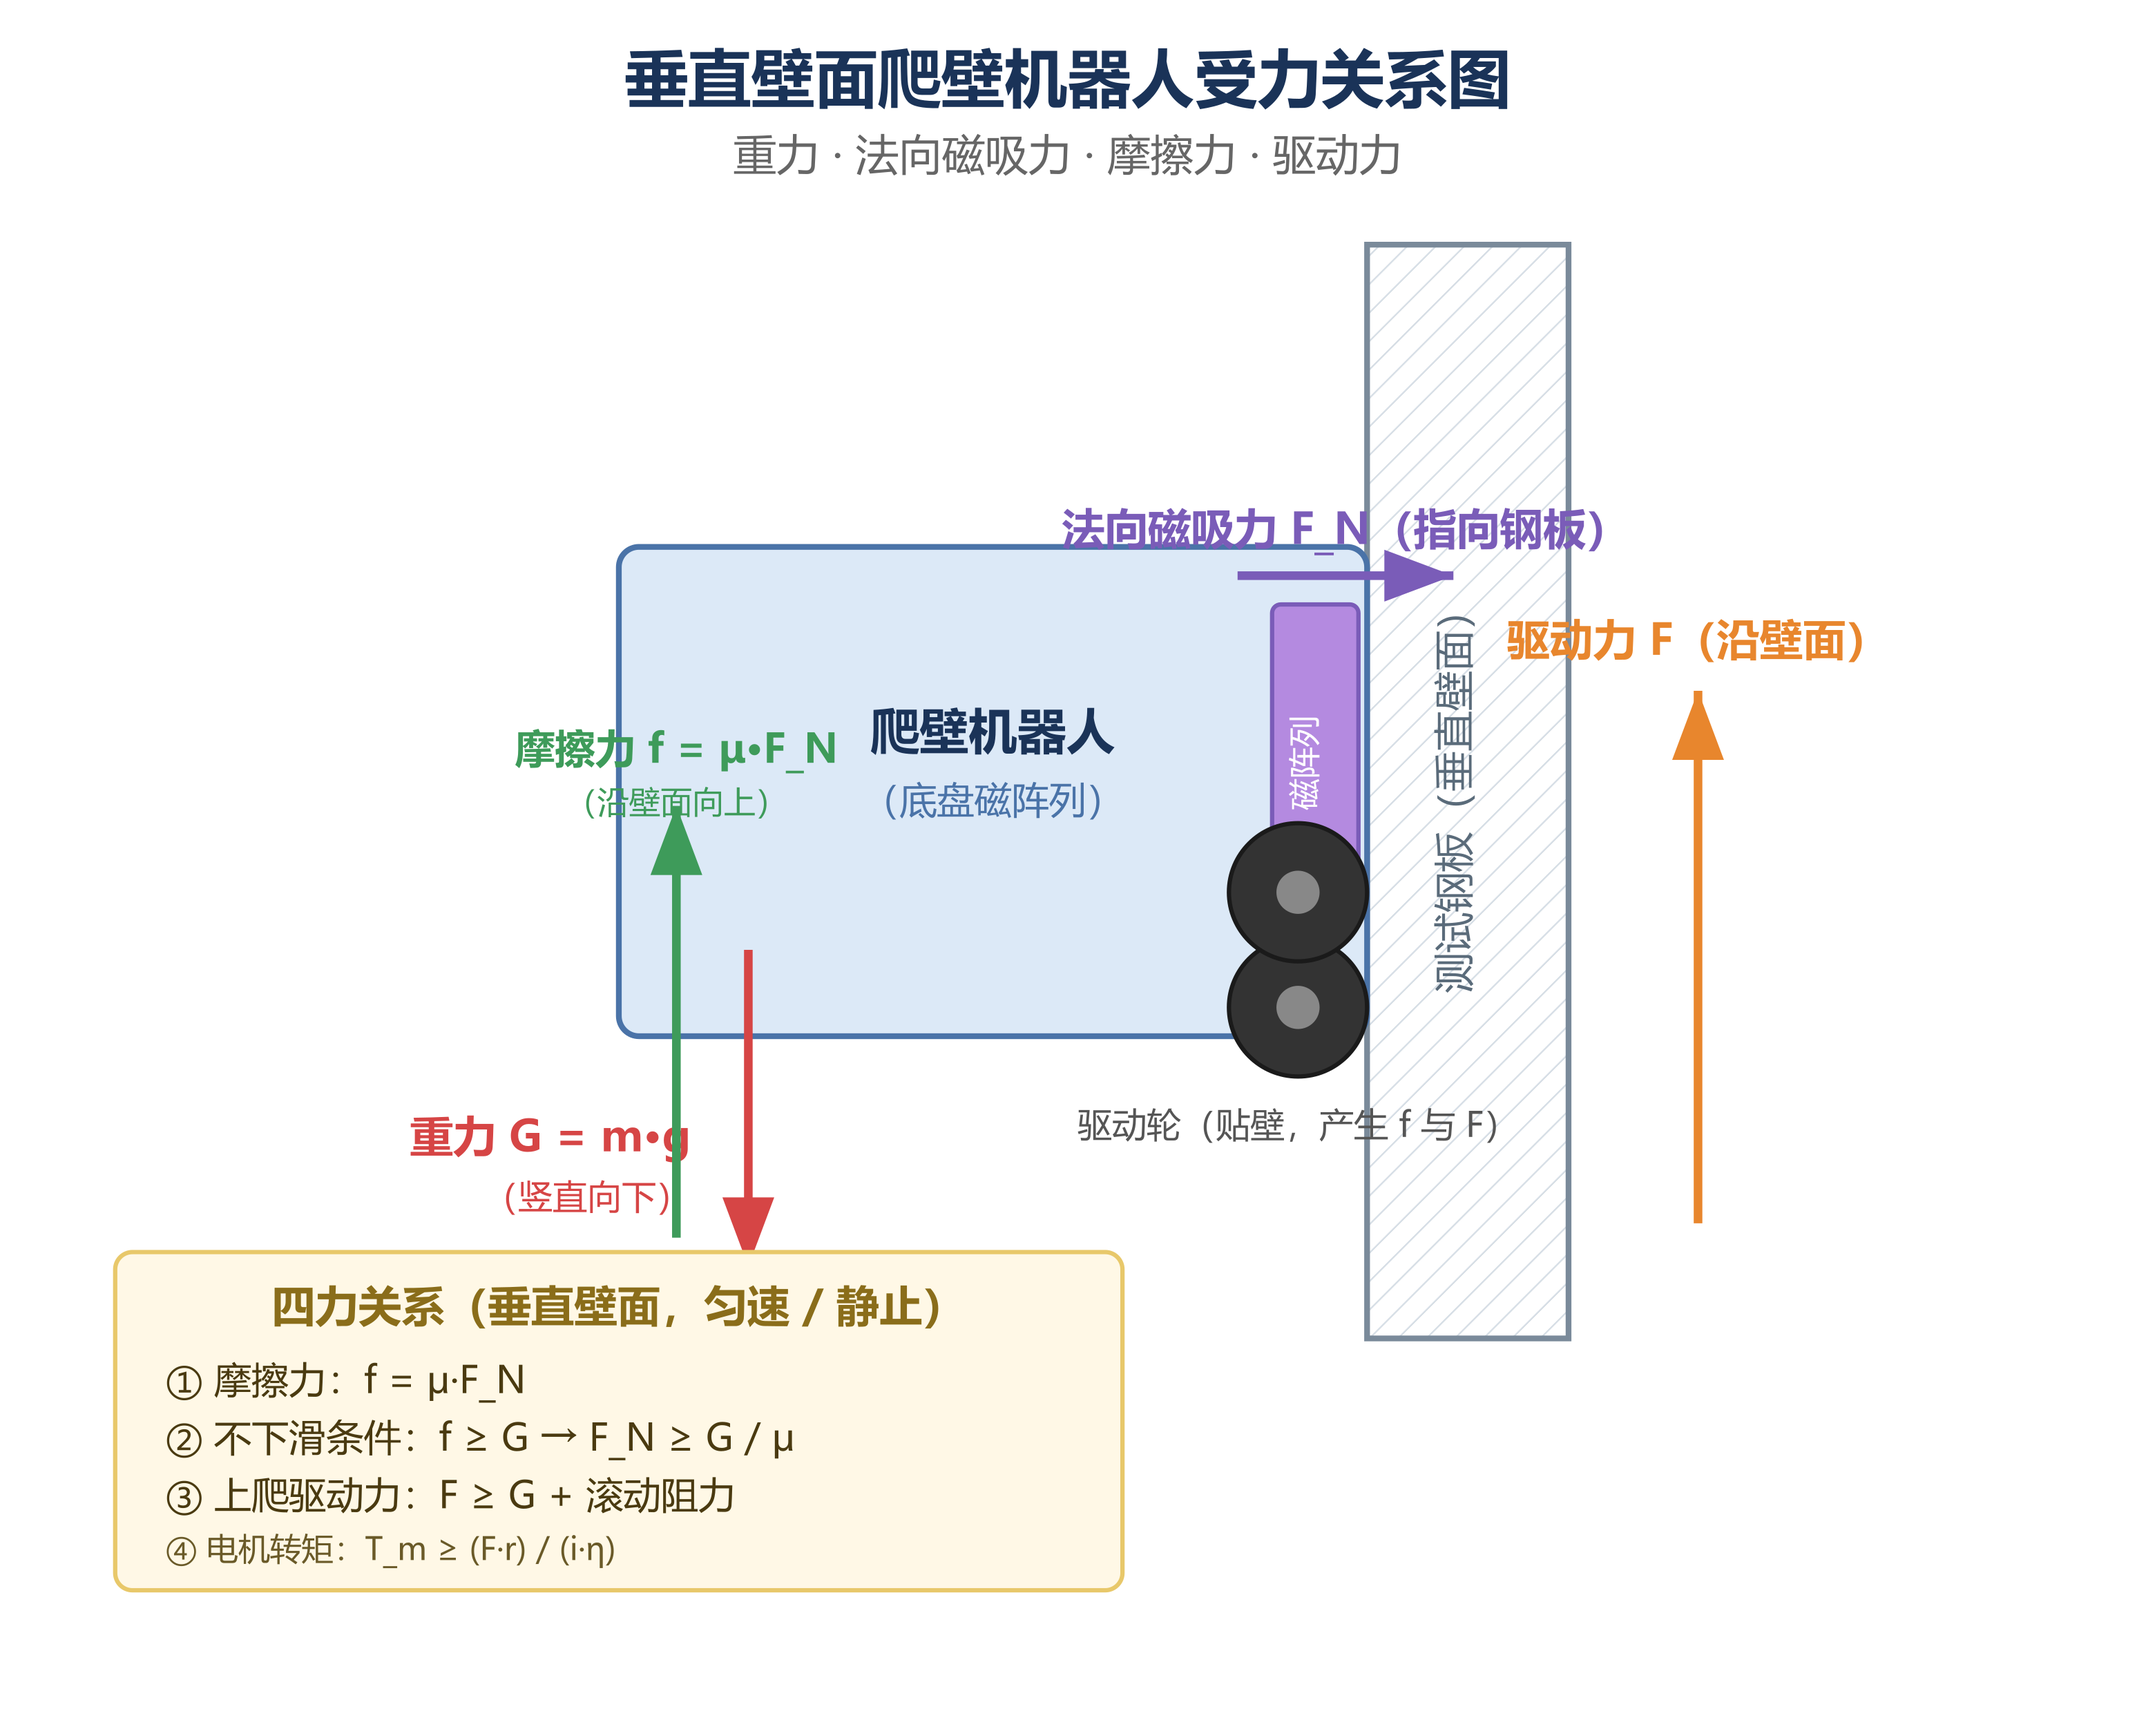
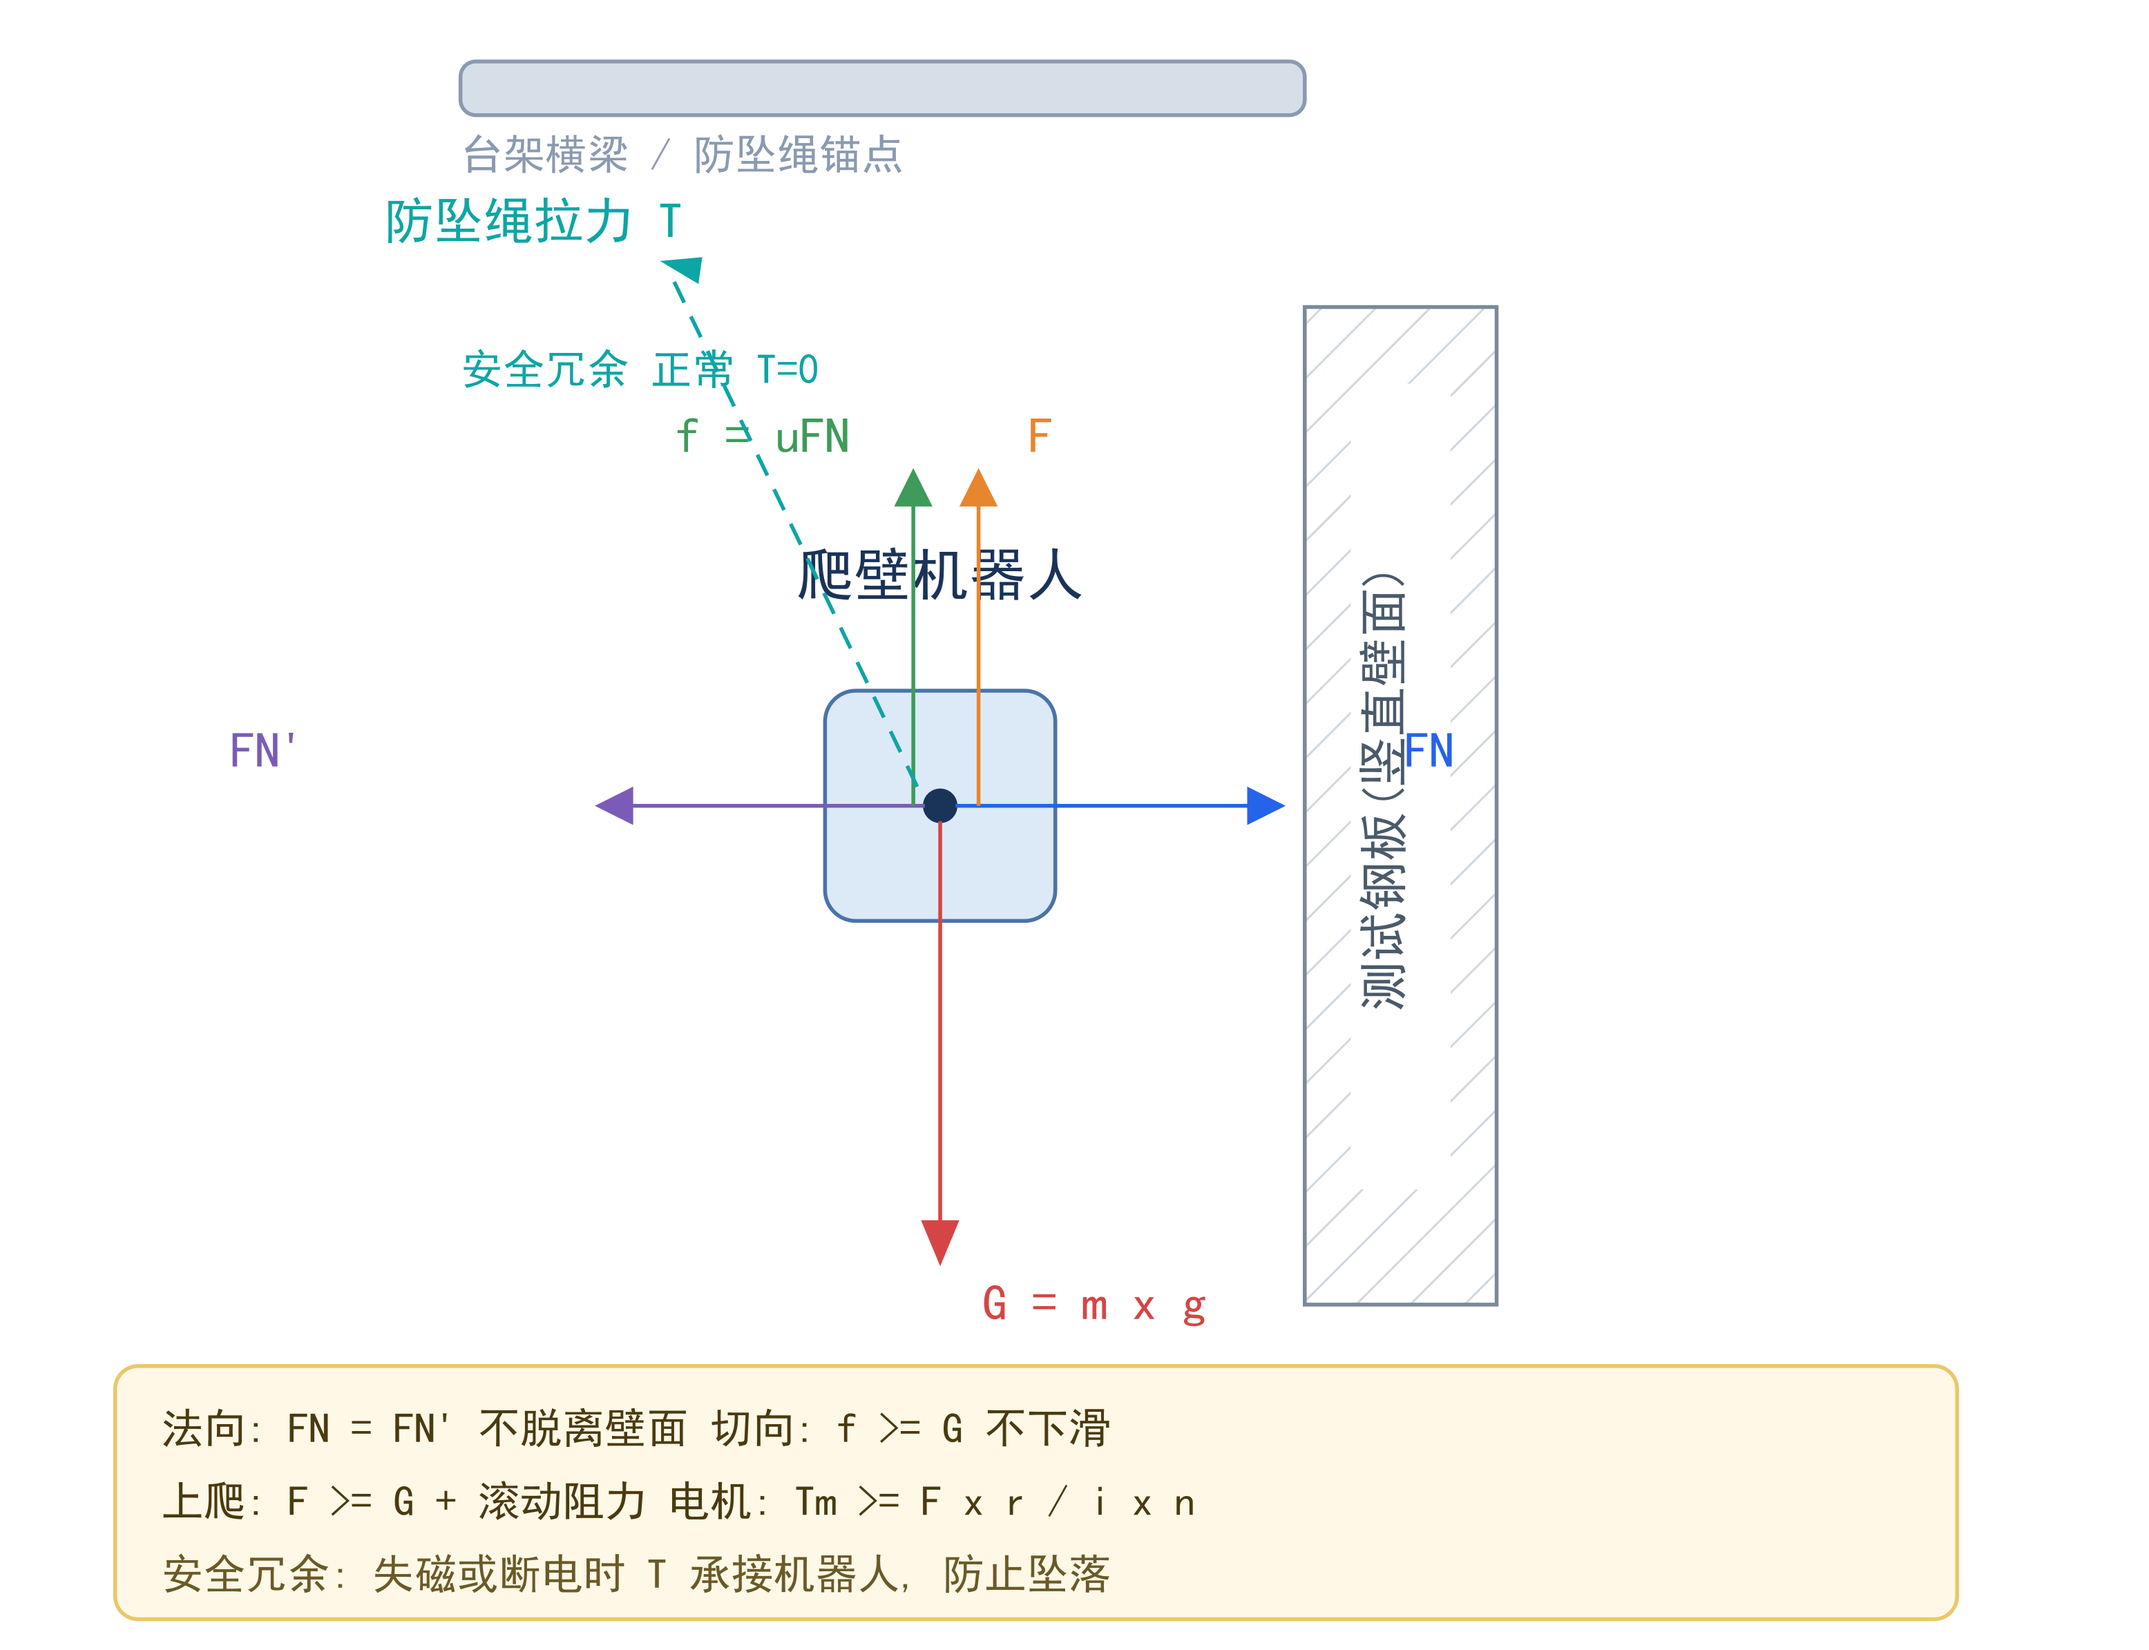
fix: 受力图改为质点共点画法，补壁面支持力与防坠绳拉力（六力）

diff --git a/docs/system_architecture.md b/docs/system_architecture.md
@@ -210,9 +210,9 @@ v = n × πD = 60/60 × 3.14 × 0.065 = 0.20 m/s
 
 ### 3.3 受力关系图与结论
 
-![受力关系图：重力 / 法向磁吸力 / 摩擦 / 驱动力](assets/force_diagram.png)
+![受力关系图：重力 / 磁吸力 / 壁面支持力 / 摩擦 / 驱动力 / 防坠绳拉力](assets/force_diagram.png)
 
-> 图说明：机器人贴在垂直钢板（右侧）上，四力为——重力 G 竖直向下、法向磁吸力 F_N 水平指向钢板、摩擦力 f 沿壁面向上、驱动力 F 沿壁面向上；左下角为四力关系式。
+> 图说明：将机器人简化为质点（质心处小方块），六个力全部从质心同一点放射——重力 G 竖直向下、法向磁吸力 F_N 水平指向钢板、壁面支持力 F_N′（与 F_N 等大反向，保证法向平衡不脱离壁面）、摩擦力 f 沿壁面向上抵抗下滑、驱动力 F 沿壁面向上推动上爬、防坠绳拉力 T 斜向上由台架绳牵拉（安全冗余，正常工况 T≈0，仅失磁/断电时兜住防坠）。底部黄色框为力平衡关系式。
 
 > 手册 7.5 关键结论：**磁力不是越大越好**——磁吸增加法向力，但也会增大转向及滚动阻力，影响电机选型。
 
